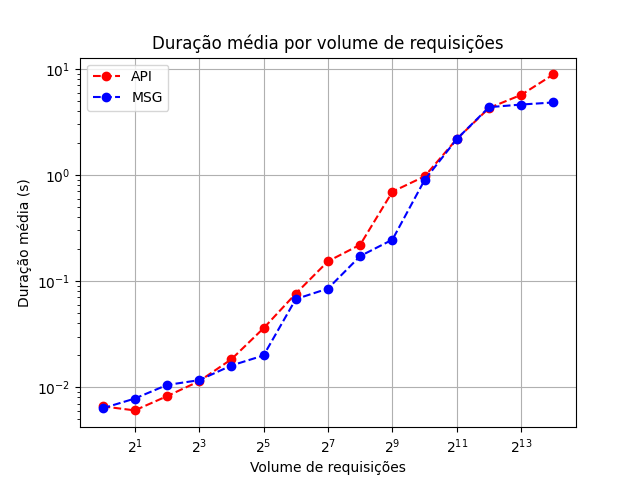
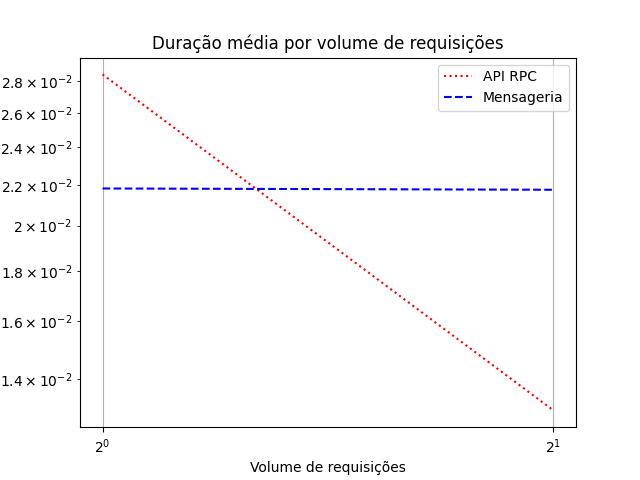
chore: update experiments

diff --git a/experiments/2/script.py b/experiments/2/script.py
@@ -1,3 +1,4 @@
+import click
 import sys
 import numpy as np
 import matplotlib.pyplot as plt
@@ -29,18 +30,18 @@ def plot_total_bloxplot_timings(
     fig, axs = plt.subplots(nrows=2, figsize=(12, 16))
 
     axs[0].boxplot(api_elapsed_times, labels=x_values)
-    axs[0].set_title("API", fontsize=10)
+    axs[0].set_title("API RPC", fontsize=10)
     axs[0].plot(
         axs[0].get_xticks(),
         [result.elapsed_time for result in api_results],
-        "o--b",
+        "o--r",
         label="Tempo total",
     )
     axs[0].legend()
     axs[0].grid(True)
 
     axs[1].boxplot(msg_elapsed_times, labels=x_values)
-    axs[1].set_title("MSG", fontsize=10)
+    axs[1].set_title("Mensageria", fontsize=10)
     axs[1].plot(
         axs[1].get_xticks(),
         [result.elapsed_time for result in msg_results],
@@ -78,8 +79,8 @@ def plot_total_timings(
     def get_result_timings(results):
         return [result.elapsed_time for result in results]
 
-    plt.plot(x_values, get_result_timings(api_results), "o--r", label="API")
-    plt.plot(x_values, get_result_timings(msg_results), "o--b", label="MSG")
+    plt.plot(x_values, get_result_timings(api_results), ":r", label="API RPC")
+    plt.plot(x_values, get_result_timings(msg_results), "--b", label="Mensageria")
     plt.legend()
     plt.grid(True)
     plt.xlabel(x_legend)
@@ -115,10 +116,10 @@ def plot_mean_timings(
         ]
 
     plt.plot(
-        x_values, get_mean_request_timings(api_results), "o--r", label="API"
+        x_values, get_mean_request_timings(api_results), ":r", label="API RPC"
     )
     plt.plot(
-        x_values, get_mean_request_timings(msg_results), "o--b", label="MSG"
+        x_values, get_mean_request_timings(msg_results), "--b", label="Mensageria"
     )
     plt.legend()
     plt.grid(True)
@@ -156,10 +157,10 @@ def plot_throughput(
         ]
 
     plt.plot(
-        x_values, get_requests_per_second(api_results), "o--r", label="API"
+        x_values, get_requests_per_second(api_results), ":r", label="API RPC"
     )
     plt.plot(
-        x_values, get_requests_per_second(msg_results), "o--b", label="MSG"
+        x_values, get_requests_per_second(msg_results), "--b", label="Mensageria"
     )
     plt.legend()
     plt.xlabel(x_legend)
@@ -197,10 +198,10 @@ def plot_std_timings(
         return [np.std(np.asarray(timing)) for timing in timings]
 
     plt.plot(
-        x_values, get_standard_deviation(api_results), "o--r", label="API"
+        x_values, get_standard_deviation(api_results), ":r", label="API RPC"
     )
     plt.plot(
-        x_values, get_standard_deviation(msg_results), "o--b", label="MSG"
+        x_values, get_standard_deviation(msg_results), "--b", label="Mensageria"
     )
 
     plt.legend()
@@ -268,10 +269,10 @@ def run(params, env):
 
 
 def plot_results(
-    plots, api_results, msg_results, benchmark_range, parameter, show=False
+    plots, api_results, msg_results, benchmark_range, parameter, show=False, save=True
 ):
     for plot in plots:
-        plot(api_results, msg_results, benchmark_range, parameter, show=False)
+        plot(api_results, msg_results, benchmark_range, parameter, show=show, save=save)
 
 
 ANALYSIS_TYPE = {
@@ -398,15 +399,29 @@ def main(benchmark_range_callback, env, show_plots=False, save_plots=True):
                 msg_results,
                 benchmark_range_callback(parameter),
                 parameter,
+                show_plots,
+                save_plots
             ]
         )
 
     for result in results:
-        plot_results(*result, show_plots, save_plots)
+        plot_results(*result)
 
 
-if __name__ == "__main__":
-
+@click.command()
+@click.option(
+    "--env",
+    "-e",
+    "env",
+    type=click.Choice(
+        list(config.Env),
+        case_sensitive=False,
+    ),
+    default=config.Env.DOCKER,
+)
+@click.option("--save", is_flag=True)
+@click.option("--show", is_flag=True)
+def cli(env, save, show):
     def range_callback(parameter):
         match parameter:
             case "memory_overhead" | "complexity_factor":
@@ -414,7 +429,7 @@ if __name__ == "__main__":
             case _:
                 return [2**i for i in range(15)]
 
-    if sys.argv[1].strip() == "docker":
-        main(range_callback, config.Env.DOCKER)
-    else:
-        main(range_callback, config.Env.LOCAL)
+    main(range_callback, env, show_plots=show, save_plots=save)
+
+if __name__ == "__main__":
+    cli()
